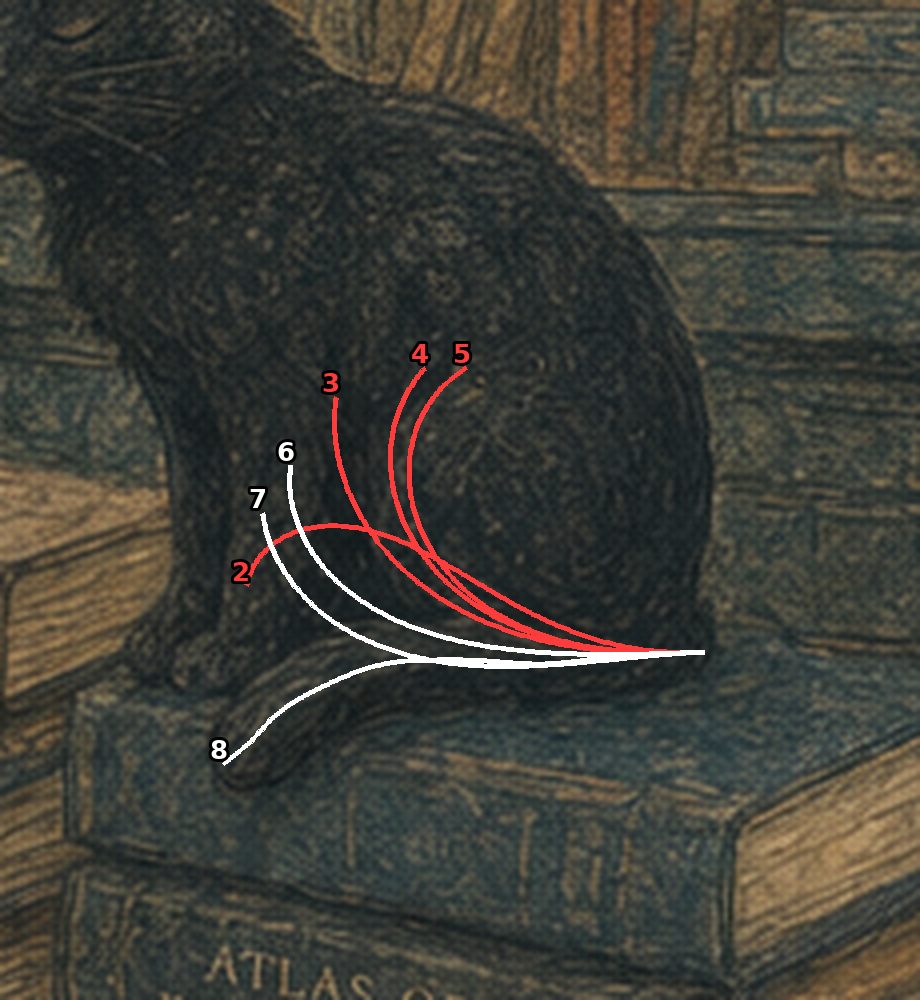
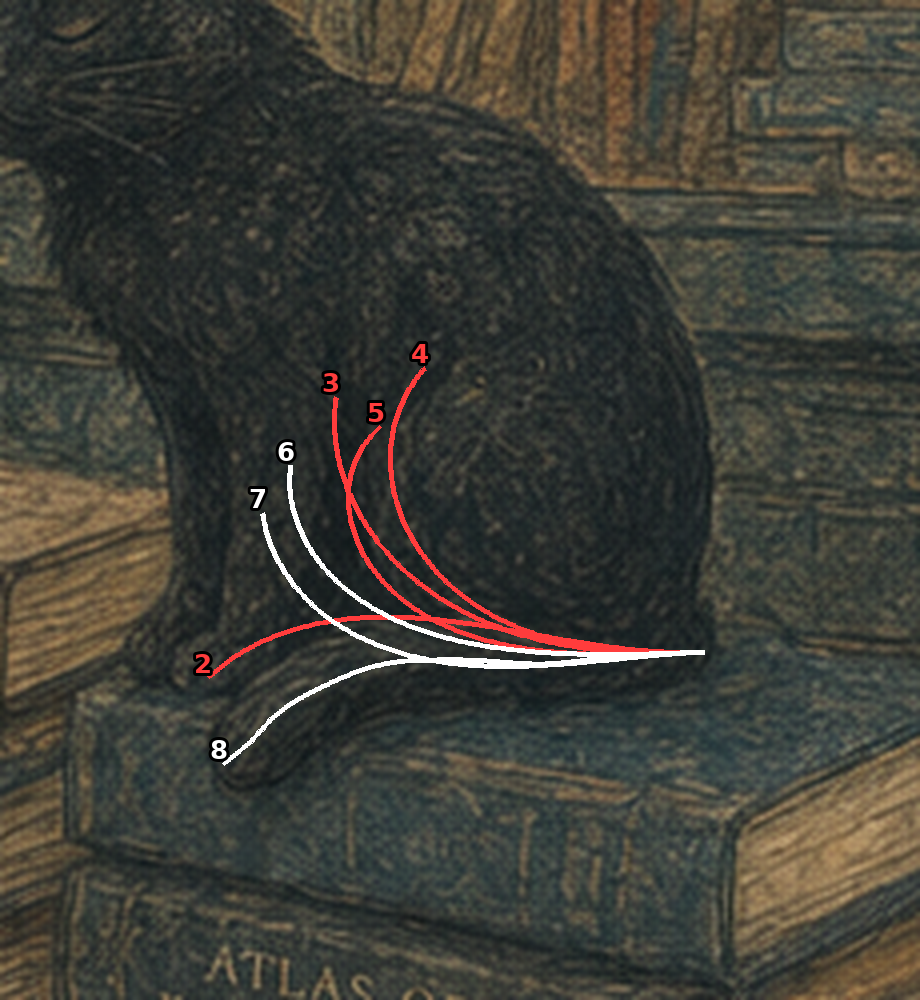
Позы хвоста 2 и 5 плавнее, оживление: медленно вверх, быстрее вниз
Claude-Session: https://claude.ai/code/session_01QRci8T51BY6ctX5Dmkwj14

diff --git a/tools/proby/hvost_ozhivlenie2.py b/tools/proby/hvost_ozhivlenie2.py
@@ -1,0 +1,33 @@
+# Оживление плавных поз (pozy_plavno.py): медленно вверх, быстрее вниз; позы связаны плавно, звенья чуть позже от основания.
+import sys, numpy as np, subprocess
+OUT5_ = sys.argv[1]; MODE5_ = sys.argv[2] if len(sys.argv) > 2 else 'video'
+exec(open('pozy_plavno.py').read().split("if __name__ == '__main__':")[0])
+PT = dict(POSES)
+KEYS = [(0.00, '1 лежит'), (1.50, '2 кончик ниже'), (2.80, '3 горб → загиб'), (3.70, '4 подзавис вверху'),
+        (4.10, '4 подзавис вверху'),                                                # медленно вверх, зависает
+        (4.50, '5 основание пошло вниз'), (4.85, '6 J'), (5.20, '7 основание легло'), (5.60, '8 лежит')]   # быстрее вниз           # быстрее вниз, кончик последним
+HOLD, LAG = 5.0, 0.12
+KT = np.array([k[0] for k in KEYS]); KTH = np.array([PT[k[1]] for k in KEYS])
+def hermite(t):
+    if t <= KT[0]: return KTH[0]
+    if t >= KT[-1]: return KTH[-1]
+    i = np.searchsorted(KT, t) - 1; t0, t1 = KT[i], KT[i + 1]; u = (t - t0) / (t1 - t0)
+    def tan(j):
+        if j == 0 or j == len(KT) - 1 or np.allclose(KTH[j], KTH[j - 1]) or np.allclose(KTH[j], KTH[j + 1]): return 0 * KTH[j]
+        return (KTH[j + 1] - KTH[j - 1]) / (KT[j + 1] - KT[j - 1])
+    m0, m1 = tan(i) * (t1 - t0), tan(i + 1) * (t1 - t0)
+    h00 = 2*u**3 - 3*u**2 + 1; h10 = u**3 - 2*u**2 + u; h01 = -2*u**3 + 3*u**2; h11 = u**3 - u**2
+    return h00 * KTH[i] + h10 * m0 + h01 * KTH[i + 1] + h11 * m1
+def at(t):
+    t -= HOLD
+    return np.array([hermite(t - LAG * x)[j] for j, x in enumerate(s)]), np.ones(len(s))
+CYCLE = HOLD + KT[-1] + LAG + 0.2
+fps = 24; n = int(round(CYCLE * fps)); w, h = x1 - x0, y1 - y0
+crop = MODE5_ == 'crop'; size = (w, h) if crop else (690, 750)
+p = subprocess.Popen(['ffmpeg', '-loglevel', 'error', '-y', '-f', 'rawvideo', '-pix_fmt', 'rgb24', '-s', f'{size[0]}x{size[1]}', '-r', str(fps), '-i', '-',
+                      '-c:v', 'libx264', '-crf', '10' if crop else '16', '-pix_fmt', 'yuv444p' if crop else 'yuv420p', OUT5_], stdin=subprocess.PIPE)
+for rep in range(1 if crop else 2):
+    for fi in range(n):
+        th_, sc = at(fi / fps); im = Image.fromarray(np.clip(frame_p(th_, sc), 0, 255).astype(np.uint8))
+        p.stdin.write(np.asarray(im if crop else im.resize(size, Image.LANCZOS)).tobytes())
+p.stdin.close(); p.wait()

diff --git a/PROJECT_NOTES.md b/PROJECT_NOTES.md
@@ -2718,3 +2718,4 @@ Shorts — НЕ делаем. Названия/шрифт/подвал — не 
 - Автор: кадр 7 опускал кончик слишком рано («палкой»). Теперь 7 = основание уже лежит как нарисовано, кончик (последние ~55 %) ещё поднят на 115°, потом ложится.
 - Автор: 2 и 3 НЕ должны быть похожи: 2 — кончик ещё ниже; 3 — горб начинает переходить в загиб (кончик идёт вверх). Варианты: table_drafts/hvost_pozy_2_3.png (2: кончик −32°; 3: горб + кончик +70°). Оживление tools/proby/hvost_ozhivlenie.py (позы по Катмулл-Рому, LAG 0.12) ждёт её взгляда на эти кадры.
 - Автор: больше пластики от основания, плавное течение к кончику, без острых мест; длина не должна гулять; 4 — подзавис вверху, не сильный крючок. Сделано: позы 3–6 — гладкие кривые (угол = a·s + b·s² + c·s³ от основания), 2 — её линия с кончиком −40° и сглаживанием кубикой, длина везде одна (без укорачивания). Линии поз поверх кота: table_drafts/hvost_linii_poz.png, кадры: hvost_pozy_plavno.png.
+- Автор по кадрам: 2 — плавнее от основания (основание «потеряно») → 2 = гладкая дуга-горб curve(78, −118); 5 — основание с загибом пошло вниз → curve(6, 45, 92). Оживление tools/proby/hvost_ozhivlenie2.py: медленно вверх (1→4 за 3.7 с), зависает в 4 (0.4 с), вниз быстрее (4→8 за 1.5 с), LAG 0.12, длина постоянная.
